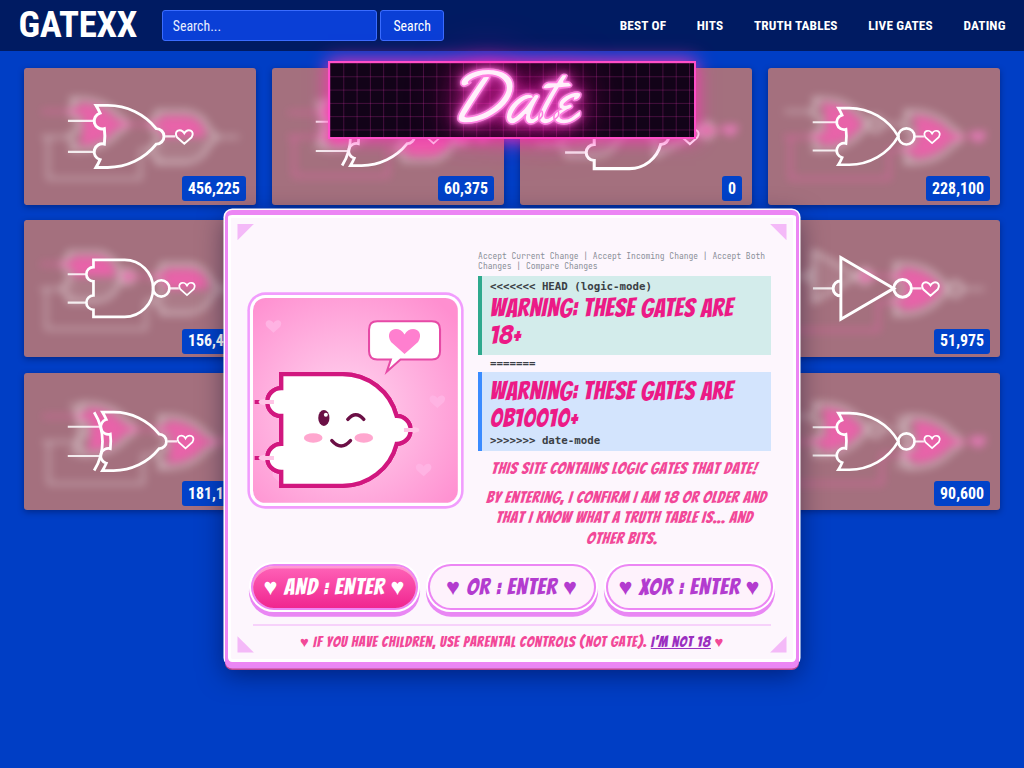
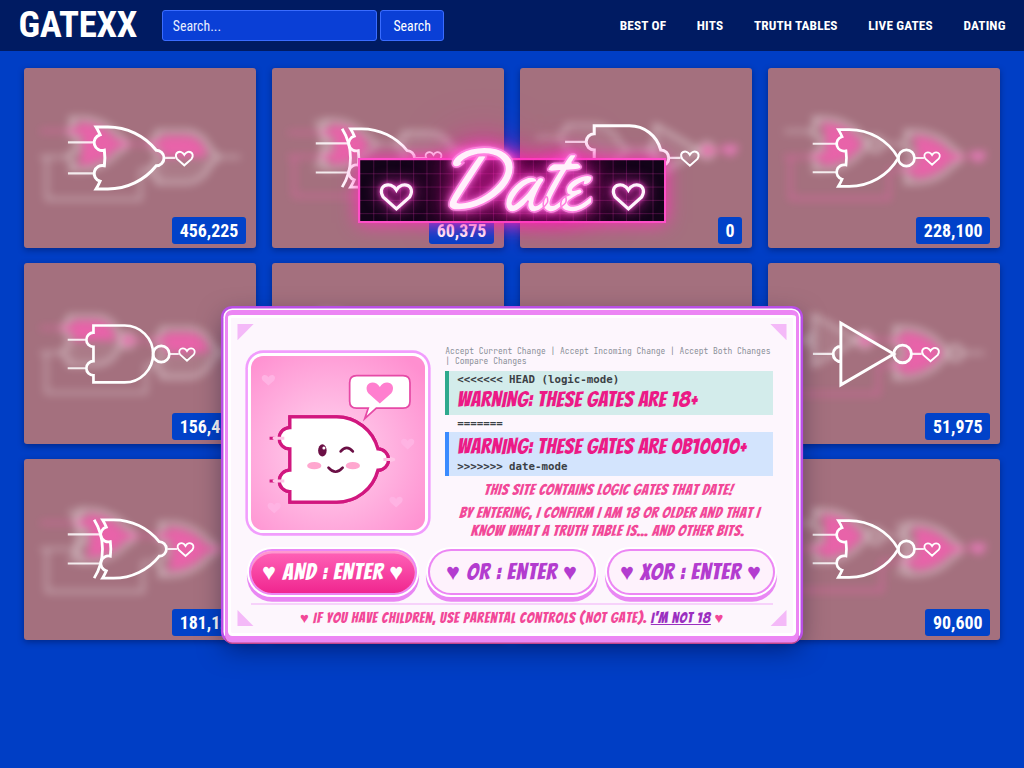
pit3/date-x: match Wenrexa kit + mockup ratios (Pillow deltas), shots + side-by-sides
Claude-Session: https://claude.ai/code/session_01MbPdze8rChHd7yWMKqzLQw

diff --git a/src/date/date.css b/src/date/date.css
@@ -2,7 +2,7 @@
 :root {
   --u: min(1vw, 1.7778vh);          /* 1% of a 16:9 stage: every size scales from the mockup frame */
   --bg: #003ec5; --navy: #001b62; --badge: #0142c9; --field: #0a3fd6; --yellow: #fee51f;
-  --panel: #fdf6fd; --bevel: #f19dfd; --bevel-2: #cc31e6; --hot: #ec1a86; --hot-2: #f24898; --lilac: #f7d2fb;
+  --panel: #fdf6fd; --bevel: #f19dfd; --bevel-2: #b94fe6; --hot: #ec1a86; --hot-2: #f24898; --lilac: #f7d2fb;
   --neon: #fc4dd0; --rim: #ec86f4; --rim-2: #e987f4; --plum: #c0478c; --kit-pink: #f24898; --btn-fill: #fef2fc; --tube: #fff0fb;
   /* Shape's own vars (theme.css is Logic-only and not loaded here) */
   --paper: rgba(255, 255, 255, .10); --ink: #fff; --ink-2: rgba(255, 255, 255, .6); --one: #ff5fb8;
@@ -35,14 +35,14 @@ a { color: inherit; }
 .v-x1 .search input { width: calc(var(--u) * 15); }
 
 /* ---------- blurred circuit grid ---------- */
-.grid { display: grid; grid-template-columns: repeat(4, 1fr); grid-auto-rows: calc(var(--u) * 13.4);
+.grid { display: grid; grid-template-columns: repeat(4, 1fr); grid-auto-rows: max(calc(var(--u) * 13.4), 23.5vh);
   gap: calc(var(--u) * 1.5) calc(var(--u) * 1.5); padding: calc(var(--u) * 1.6) calc(var(--u) * 2.3); }
 .tile { position: relative; overflow: hidden; border-radius: 3px; background: #a4707e; display: block; text-decoration: none;
   box-shadow: 0 2px 6px rgba(0, 0, 30, .35); }
 .blob { position: absolute; inset: -20%; filter: blur(18px) saturate(1.1); hue-rotate: 0;
-  background: radial-gradient(circle at 30% 40%, hsl(calc(330 + var(--h) * 1deg) 60% 70%), transparent 45%),
+  background: radial-gradient(circle at 30% 40%, hsl(calc(330 + var(--h) * 1deg) 75% 74%), transparent 45%), radial-gradient(circle at 15% 80%, hsl(340 80% 80%), transparent 30%),
     radial-gradient(circle at 70% 65%, hsl(calc(10 + var(--h) * 1deg) 45% 45%), transparent 50%),
-    radial-gradient(circle at 55% 20%, hsl(20 40% 78%), transparent 40%), radial-gradient(circle at 85% 20%, hsl(330 70% 82%), transparent 35%), #a4707e; }
+    radial-gradient(circle at 55% 20%, hsl(20 40% 78%), transparent 40%), radial-gradient(circle at 85% 20%, hsl(330 70% 82%), transparent 35%), #b27a8c; }
 .pair { position: absolute; inset: 8% 6% 14%; width: 88%; height: 78%; filter: blur(4px); opacity: .75; transition: filter .25s, opacity .25s; }
 .icon { position: absolute; left: 18%; top: 14%; height: 72%; width: 60%; overflow: visible; transition: opacity .2s; }
 .icon .shape .body { fill: none; stroke-width: 4; }
@@ -53,7 +53,7 @@ a { color: inherit; }
   opacity: 0; transition: opacity .2s; }
 .tile:hover .match { opacity: 1; }
 .badge { position: absolute; right: calc(var(--u) * 1); bottom: calc(var(--u) * .35); background: var(--badge); color: #fff;
-  font: 700 calc(var(--u) * 1.55)/1 'Roboto Condensed', sans-serif; padding: calc(var(--u) * .45) calc(var(--u) * .6); border-radius: 3px; }
+  font: 700 calc(var(--u) * 1.75)/1 'Roboto Condensed', sans-serif; padding: calc(var(--u) * .45) calc(var(--u) * .75); border-radius: 3px; }
 
 /* Shape inside the date page */
 .shape { overflow: visible; }
@@ -85,7 +85,7 @@ a { color: inherit; }
   /* Wenrexa kit (Pillow, 1eb8144a): white panel, thin #ec86f4 rim, thicker lilac lip on top, lilac + plum drop lip below */
   border: calc(var(--u) * .3) solid var(--rim); border-top-width: calc(var(--u) * .55); border-radius: calc(var(--u) * .7);
   box-shadow: inset 0 0 0 calc(var(--u) * .3) #fff, 0 calc(var(--u) * .35) 0 var(--rim-2), 0 calc(var(--u) * .5) 0 var(--plum),
-    0 0 0 calc(var(--u) * .15) #fff, 0 calc(var(--u) * .8) calc(var(--u) * 2.6) rgba(0, 0, 40, .5);
+    0 0 0 calc(var(--u) * .15) #fff, 0 0 0 calc(var(--u) * .4) var(--bevel-2), 0 calc(var(--u) * .8) calc(var(--u) * 2.6) rgba(0, 0, 40, .5);
   padding: calc(var(--u) * 2.2) calc(var(--u) * 3); text-align: center; }
 .cn { position: absolute; width: calc(var(--u) * 1.6); height: calc(var(--u) * 1.6); background: var(--rim); opacity: .55; }
 .cn.tl { left: calc(var(--u) * .9); top: calc(var(--u) * .9); clip-path: polygon(0 0, 100% 0, 0 100%); }
@@ -113,16 +113,18 @@ a { color: inherit; }
 .btn:focus-visible { outline: 3px dashed var(--yellow); outline-offset: 6px; }
 
 /* x1: the first mockup: no portrait, two buttons, the neon lives in the logo */
-.s1 { padding-top: calc(var(--u) * 7.5); }
-.m1 { min-height: calc(var(--u) * 28); }
+.s1 { padding-top: max(calc(var(--u) * 5.2), calc(50vh - var(--u) * 5 - var(--u) * 18.1)); }
+.m1 { min-height: calc(var(--u) * 32); }
 
 /* x2 + x3: neon sign plate over the panel, portrait left */
 .sign { position: relative; z-index: 2; display: flex; justify-content: center; }
-.s2 { padding-top: calc(var(--u) * 1); }
-.s2 .sign { margin-bottom: calc(var(--u) * -3.2); background: #120318;
+.s2 { padding-top: max(calc(var(--u) * 1), calc(50vh - var(--u) * 5 - var(--u) * 22.1)); }
+.s2 .sign { margin-bottom: calc(var(--u) * -4.2); background: #120318;
   background-image: linear-gradient(rgba(255, 60, 200, .22) 1px, transparent 1px), linear-gradient(90deg, rgba(255, 60, 200, .22) 1px, transparent 1px);
   background-size: calc(var(--u) * 1.3) calc(var(--u) * 1.3); border: 2px solid #ff4fc8; box-shadow: 0 0 18px #ff2fb8;
-  width: calc(var(--u) * 36); margin-left: auto; margin-right: auto; height: calc(var(--u) * 7.6); align-items: center; }
+  width: calc(var(--u) * 30); margin-left: auto; margin-right: auto; height: calc(var(--u) * 6.4); align-items: center; }
+.s2 .sign .neon { font-size: calc(var(--u) * 8.6); transform: translateY(-8%); }
+.s2 .sign .nh { position: absolute; top: 28%; width: calc(var(--u) * 3.4); height: calc(var(--u) * 3.4); } .s2 .sign .nh.l { left: 6%; } .s2 .sign .nh.r { right: 6%; }
 .cols > * { min-width: 0; }
 .cols { display: grid; grid-template-columns: calc(var(--u) * 20) 1fr; gap: calc(var(--u) * 2); align-items: center; text-align: center; }
 .portrait > svg { width: 100%; display: block; border-radius: calc(var(--u) * 1.2); box-shadow: 0 0 0 calc(var(--u) * .3) #fff, 0 0 0 calc(var(--u) * .55) var(--bevel); }
@@ -133,34 +135,38 @@ a { color: inherit; }
 .face .wink, .face .smile { fill: none; stroke: #6b0f45; stroke-width: 2.6; stroke-linecap: round; }
 .face .blush { fill: #ff5fa8; opacity: .55; }
 .bubble { fill: #fff; stroke: #e64aa6; stroke-width: 3; }
-.m2 { width: calc(var(--u) * 56); padding: calc(var(--u) * 3.6) calc(var(--u) * 2.4) calc(var(--u) * 1); }
+.m2 { width: calc(var(--u) * 56); padding: calc(var(--u) * 3.2) calc(var(--u) * 2.2) calc(var(--u) * .8); }
+.m2 .cols { grid-template-columns: calc(var(--u) * 17) 1fr; }
+.m2 .foot { margin-top: calc(var(--u) * 1); padding-top: calc(var(--u) * .5); }
 .m2 .warn { font-size: calc(var(--u) * 5.8); }
-.m2 .fine { font-size: calc(var(--u) * 1.6); margin-top: calc(var(--u) * .8); }
+.m2 .fine { font-size: calc(var(--u) * 1.5); margin-top: calc(var(--u) * .5); line-height: 1.15; }
 .btns.three { gap: calc(var(--u) * 1.4); }
 .btns.three .btn { font-size: calc(var(--u) * 2.3); white-space: nowrap; padding: calc(var(--u) * .9) calc(var(--u) * .6); }
-.m2 .btns { margin-top: calc(var(--u) * 1.6); }
+.m2 .btns { margin-top: calc(var(--u) * 1.2); }
 .foot { font: 400 calc(var(--u) * 1.45) 'Bangers', cursive; letter-spacing: .05em; color: var(--hot-2); margin: calc(var(--u) * 1.6) 0 0;
   border-top: 2px solid var(--lilac); padding-top: calc(var(--u) * .8); }
 .foot a { color: #9b2fc0; }
 
-.s3 { padding-top: calc(var(--u) * 5.2); }
+.s3 { padding-top: max(calc(var(--u) * 5.2), calc(50vh - var(--u) * 5 - var(--u) * 17.9)); }
 .m3 { width: calc(var(--u) * 54); padding: 0 calc(var(--u) * 1.4) calc(var(--u) * 1.4); }
-.m3 .plate { margin: 0 calc(var(--u) * -1.2) calc(var(--u) * 1); height: calc(var(--u) * 7); align-items: end;
+.m3 .plate { margin: 0 calc(var(--u) * -1.2) calc(var(--u) * .6); height: calc(var(--u) * 5.6); align-items: end;
   background: #0d0414; background-image: linear-gradient(rgba(255, 255, 255, .16) 1px, transparent 1px), linear-gradient(90deg, rgba(255, 255, 255, .16) 1px, transparent 1px);
   background-size: calc(var(--u) * 1.5) calc(var(--u) * 1.5); border-radius: calc(var(--u) * .5) calc(var(--u) * .5) 0 0; }
 .m3 .plate { align-items: center; }
-.m3 .plate .neon { font-size: calc(var(--u) * 8); transform: translateY(-4%); }
+.m3 .plate .neon { font-size: calc(var(--u) * 10); transform: translateY(-16%); }
+.m3 { box-shadow: inset 0 0 0 calc(var(--u) * .3) #fff, 0 0 0 calc(var(--u) * .4) #f37ce6, 0 0 calc(var(--u) * 1.6) #ff4fd8, 0 calc(var(--u) * .8) calc(var(--u) * 2.6) rgba(0, 0, 40, .5); }
 .m3 .nh { position: absolute; bottom: 18%; width: calc(var(--u) * 5); height: calc(var(--u) * 5); }
 .m3 .nh.l { left: 18%; } .m3 .nh.r { right: 18%; }
 .close { position: absolute; right: calc(var(--u) * .8); top: calc(var(--u) * .8); z-index: 3; width: calc(var(--u) * 3.2); height: calc(var(--u) * 3.2);
   display: grid; place-items: center; background: #fff; color: var(--hot); font: 700 calc(var(--u) * 2.2)/1 sans-serif; text-decoration: none;
   border-radius: 4px; box-shadow: 0 0 0 2px #f39ad7; }
 .m3 .cols { grid-template-columns: calc(var(--u) * 20) 1fr; align-items: start; }
-.m3 .warn { font-size: calc(var(--u) * 5.6); }
+.m3 .warn { font-size: calc(var(--u) * 6); }
+.m3 .cols { grid-template-columns: calc(var(--u) * 18) 1fr; }
 .m3 .warn small { font-size: .5em; }
 .m3 .warn .n { font-size: .44em; }
 .y { font-style: normal; color: var(--yellow); -webkit-text-stroke: 1.5px #e0a800; font-size: 1.35em; }
-.btns.stack { flex-direction: column; align-items: center; gap: calc(var(--u) * 1.6); margin-top: calc(var(--u) * 1); }
+.btns.stack { flex-direction: column; align-items: center; gap: calc(var(--u) * 1.3); margin-top: calc(var(--u) * 1); }
 .btn.wide { width: 100%; font-size: calc(var(--u) * 2.9); }
 .btn.narrow { width: 66%; font-size: calc(var(--u) * 2.5); flex: none; }
 
@@ -189,11 +195,11 @@ a { color: inherit; }
 /* ---------- surprise x2: merge conflict ---------- */
 .conflict { text-align: left; font: 400 calc(var(--u) * 1.05)/1.25 'JetBrains Mono', monospace; }
 .conflict .lens { color: #8a8f98; font-size: calc(var(--u) * .78); margin-bottom: 4px; }
-.conflict .ours { background: rgba(64, 200, 174, .22); border-left: 4px solid #2ea98d; padding: 4px 8px; }
-.conflict .theirs { background: rgba(64, 166, 255, .22); border-left: 4px solid #3a8bff; padding: 4px 8px; }
+.conflict .ours { background: rgba(64, 200, 174, .22); border-left: 4px solid #2ea98d; padding: 2px 8px; }
+.conflict .theirs { background: rgba(64, 166, 255, .22); border-left: 4px solid #3a8bff; padding: 2px 8px; }
 .conflict code { display: block; color: #3b4045; font-weight: 700; }
 .conflict .mid { padding: 2px 12px; }
-.conflict span { display: block; font: 400 calc(var(--u) * 2.5)/1.05 'Bangers', cursive; color: var(--hot); letter-spacing: .02em; margin: 2px 0; }
+.conflict span { display: block; font: 400 calc(var(--u) * 2.15)/1 'Bangers', cursive; color: var(--hot); letter-spacing: .02em; margin: 2px 0; }
 .date:not(.still) .conflict { animation: glitch .4s steps(2) 1; }
 @keyframes glitch { 0% { transform: translateX(-6px); filter: hue-rotate(90deg); } 50% { transform: translateX(5px); } 100% { transform: none; } }
 

diff --git a/src/date/main.jsx b/src/date/main.jsx
@@ -123,7 +123,7 @@ function Portrait() {
         <defs><radialGradient id="pg" cx="45%" cy="55%" r="70%"><stop offset="0" stopColor="#ffd6f0" /><stop offset="1" stopColor="#ff8fd0" /></radialGradient></defs>
         <rect width="300" height="300" rx="18" fill="url(#pg)" />
         {[[30, 40], [250, 250], [40, 260], [270, 150]].map(([x, y], i) => <Heart key={i} x={x} y={y} s={1.1} className="heart soft" />)}
-        <g transform="translate(18 88) scale(1.95)">
+        <g transform="translate(46 84) scale(1.75)">
           <line className="w on" x1={-8} x2={0} y1={33} y2={33} /><line className="w on" x1={-8} x2={0} y1={75} y2={75} />
           <Shape g={g} on lit={{ in: [true, true], out: true }} />
           <g className="face">
@@ -213,7 +213,7 @@ function X2() {
   const on = useLanded(1500);
   return (
     <div className="stage s2">
-      <div className="sign"><Neon /></div>
+      <div className="sign"><svg viewBox="-12 -12 24 24" className="nh l"><Heart className="heart tube" /></svg><Neon /><svg viewBox="-12 -12 24 24" className="nh r"><Heart className="heart tube" /></svg></div>
       <section className="modal m2" role="dialog" aria-modal="true">
         <Corners />
         <div className="cols">

diff --git a/research/x/compare.py b/research/x/compare.py
@@ -1,0 +1,28 @@
+"""compare.py: side-by-side PNGs (ref | ours) and ref-vs-ours delta tables for each variant.
+usage: python3 compare.py REFDIR   (REFDIR holds the refs; the adult-site gate refs live outside the repo)
+"""
+import sys, os
+from PIL import Image, ImageDraw
+sys.path.insert(0, os.path.dirname(__file__))
+from measure import measure, KEYS, delta
+
+HERE = os.path.dirname(os.path.abspath(__file__)); SHOTS = os.path.join(HERE, 'shots')
+REF = sys.argv[1]
+PAIRS = {'x1': 'ee486fef-image.png', 'x2': 'c20f7340-image.png', 'x3': '8c0d1049-image.png'}
+# The original gate (9dce964e), hand-measured with Pillow (the auto scan can't find a dark-blue modal on a dark-blue page):
+XNXX = {'bg': '#00016c', 'navy': '#090d56', 'header_ratio': 0.1333, 'modal_ratio': {'x': 0.25, 'y': 0.247, 'w': 0.5, 'h': 0.505},
+        'modal_fill': '#00008f', 'head_cap_ratio': 0.0233, 'badge': '#093ea9', 'yellow': '#ffff00'}
+
+for v, ref in PAIRS.items():
+    a = Image.open(os.path.join(REF, ref)).convert('RGB').resize((1440, 810))
+    b = Image.open(os.path.join(SHOTS, f'{v}-1440.png')).convert('RGB')
+    sb = Image.new('RGB', (2890, 850), '#111')
+    sb.paste(a, (0, 40)); sb.paste(b, (1450, 40))
+    d = ImageDraw.Draw(sb); d.text((10, 10), f'REF {ref}', fill='#fff'); d.text((1460, 10), f'OURS date.html?v={v} @1440x810', fill='#fff')
+    sb.save(os.path.join(SHOTS, f'side-{v}.png'))
+    r, m = measure(os.path.join(REF, ref)), measure(os.path.join(SHOTS, f'{v}-1440.png'))
+    print(f'\n#### {v} vs mockup `{ref}` and the original gate\n')
+    print('| metric | mockup | ours | delta vs mockup | original gate | delta vs original |\n|---|---|---|---|---|---|')
+    for k in KEYS:
+        x = XNXX.get(k)
+        print(f'| {k} | {r.get(k)} | {m.get(k)} | {delta(r.get(k), m.get(k))} | {x if x is not None else "n/a"} | {delta(x, m.get(k)) if x is not None else "n/a"} |')
